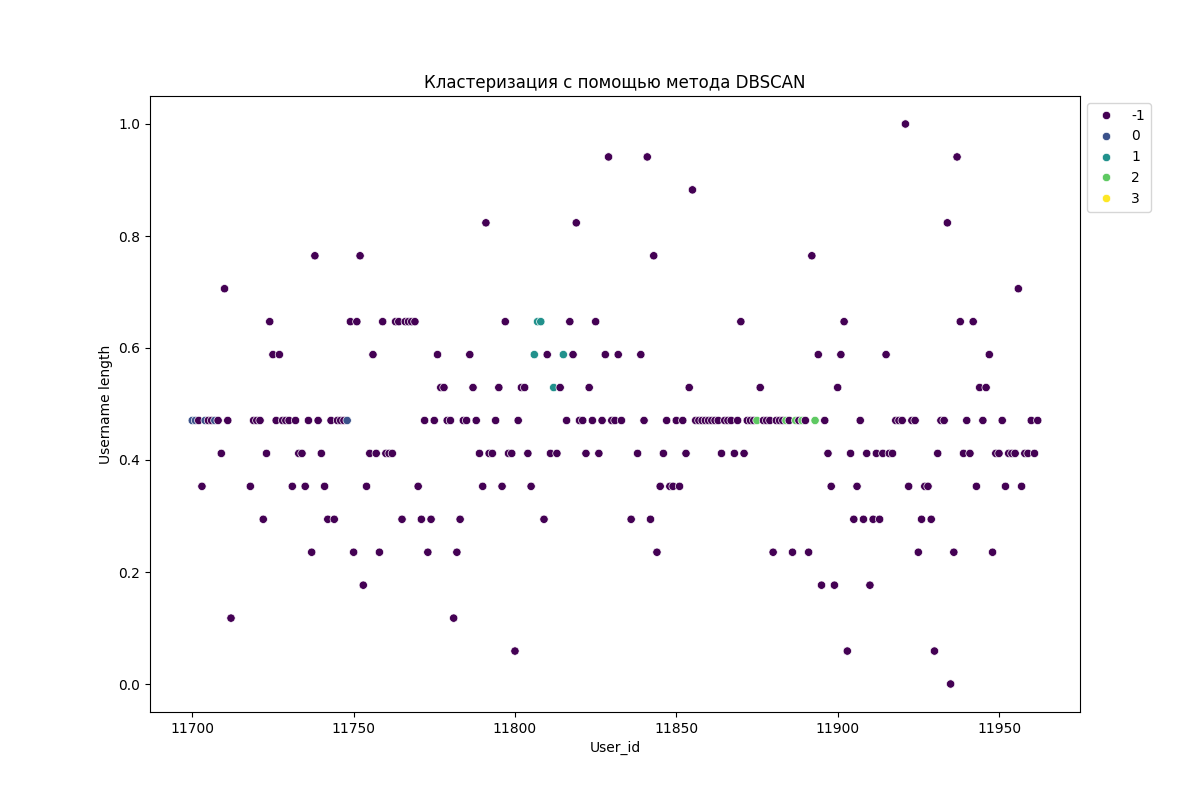
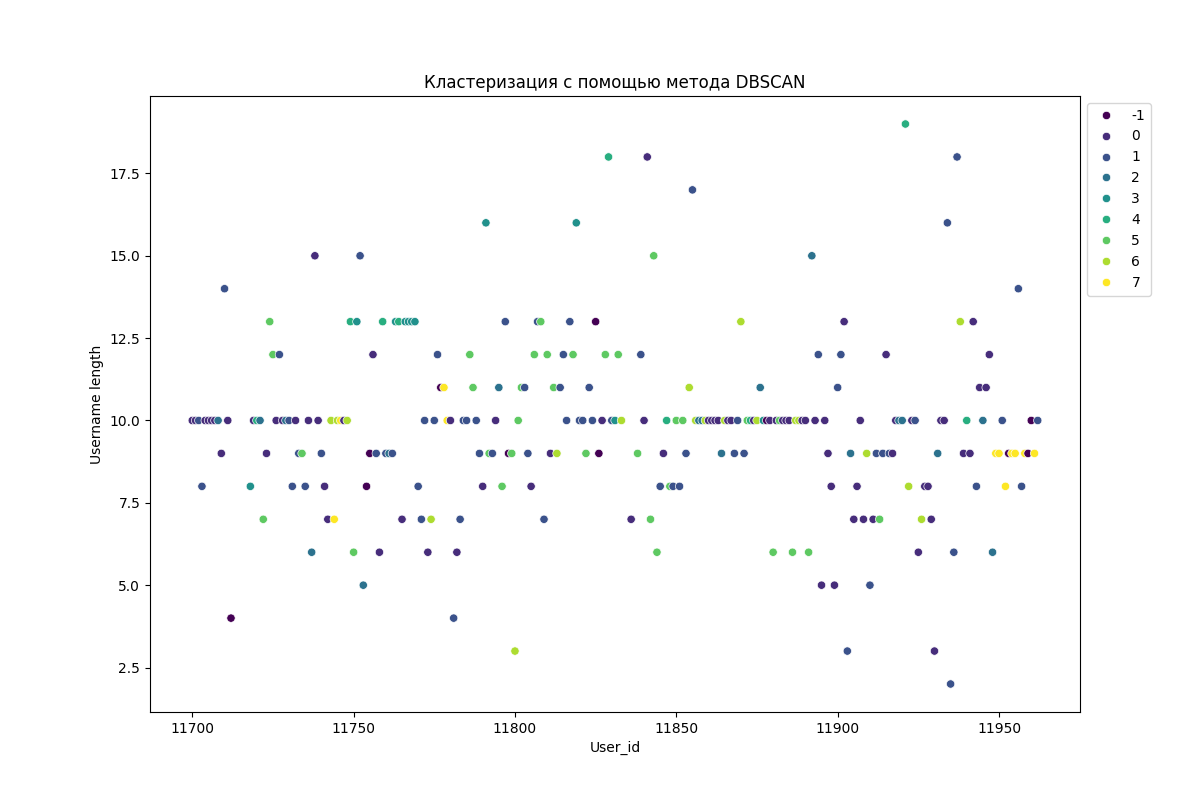
Доработан алгоритм DBSCAN

diff --git a/DBSCAN.py b/DBSCAN.py
@@ -1,11 +1,11 @@
 import sqlite3
 import pandas as pd
-from sklearn.feature_extraction.text import CountVectorizer
-from sklearn.preprocessing import StandardScaler
+from sklearn.impute import SimpleImputer
+from sklearn.preprocessing import MinMaxScaler
 from sklearn.cluster import DBSCAN
 import matplotlib.pyplot as plt
 import seaborn as sns
-import numpy as np
+
 
 # Создание и соединение с базой данных
 connection = sqlite3.connect('accounts_db.db')
@@ -13,8 +13,6 @@ connection = sqlite3.connect('accounts_db.db')
 # Чтение данных из таблицы features
 query = """
 SELECT user_id,
-       username,
-       email,
        username_length,
        numbers_in_name,
        email_length,
@@ -37,39 +35,23 @@ data = pd.read_sql_query(query, connection)
 # Используем user_id как индекс
 data.set_index('user_id', inplace=True)
 
-# Заменяем пропущенные значения в столбце email
-data['email'] = data['email'].replace({None: ''})
+# Заполнение отсутствующих значений в данных
+imputer = SimpleImputer(strategy='mean')  # Берем среднее значение по столбцу
+data_imputed = imputer.fit_transform(data)
 
-# Векторизация текстовых данных (username и email)
-vectorizer = CountVectorizer()
-username_vectorized = vectorizer.fit_transform(data['username'])
-email_vectorized = vectorizer.transform(data['email'])
-
-# Конвертация в DataFrame и добавление к основному DataFrame
-username_df = pd.DataFrame(username_vectorized.toarray(), columns=[f'username_{col}' for col in vectorizer.get_feature_names_out()])
-email_df = pd.DataFrame(email_vectorized.toarray(), columns=[f'email_{col}' for col in vectorizer.get_feature_names_out()])
-
-data = pd.concat([data, username_df, email_df], axis=1)
-
-# Выбираем все числовые признаки для кластеризации
-features_for_clustering = [
-    'username_length', 'numbers_in_name', 'email_length', 'matching_names', 'pattern_email',
-    'country', 'date_last_email', 'date_registered', 'date_last_login', 'matching_dates',
-    'username_neighbour_above', 'username_neighbour_below', 'email_neighbour_above', 'email_neighbour_below']
-
-# Нормализация числовых признаков
-scaler = StandardScaler()
-data_normalized = scaler.fit_transform(data[features_for_clustering])
-
-# Замена null на среднее значение в каждом столбце
-data_normalized = np.nan_to_num(data_normalized)
+# Нормализация числовых и векторизованных признаков
+scaler = MinMaxScaler()
+data_normalized = scaler.fit_transform(data_imputed)
 
 # Применение DBSCAN
-dbscan = DBSCAN(eps=0.5, min_samples=5)
+dbscan = DBSCAN(eps=1, min_samples=6)
 data['cluster'] = dbscan.fit_predict(data_normalized)
 
-# Закрываем соединение с базой данных
-connection.close()
+# Вывод информации о фейковых аккаунтах
+fake_accounts = data[data['cluster'] == -1]
+
+# Сохранение данных в CSV файл
+fake_accounts.to_csv('fake_accounts_dbscan.csv', index=True)
 
 # Создание изображения
 plt.figure(figsize=(12, 8))
@@ -81,3 +63,6 @@ plt.legend(loc='upper left', bbox_to_anchor=(1, 1))
 
 plt.savefig('dbscan_clustering_ALL.png')
 plt.show()
+
+# Закрываем соединение с базой данных
+connection.close()

diff --git a/eps.py b/eps.py
@@ -1,0 +1,71 @@
+import sqlite3
+import pandas as pd
+import matplotlib.pyplot as plt
+from sklearn.impute import SimpleImputer
+from sklearn.neighbors import NearestNeighbors
+import numpy as np
+from kneed import KneeLocator
+from sklearn.preprocessing import MinMaxScaler
+
+min_samples = 6
+
+# Создание и соединение с базой данных
+connection = sqlite3.connect('accounts_db.db')
+
+# Чтение данных из таблицы features
+query = """
+SELECT user_id,
+       username_length,
+       numbers_in_name,
+       email_length,
+       matching_names,
+       pattern_email,
+       country,
+       date_last_email,
+       date_registered, 
+       date_last_login,
+       matching_dates,
+       username_neighbour_above,
+       username_neighbour_below,
+       email_neighbour_above,
+       email_neighbour_below
+FROM features;
+"""
+
+data = pd.read_sql_query(query, connection)
+
+# Используем user_id как индекс
+data.set_index('user_id', inplace=True)
+
+# Заполнение отсутствующих значений в данных
+imputer = SimpleImputer(strategy='mean')  # Берем среднее значение по столбцу
+data_imputed = pd.DataFrame(imputer.fit_transform(data), columns=data.columns, index=data.index)
+
+# Нормализация числовых
+scaler = MinMaxScaler()
+data_normalized = scaler.fit_transform(data_imputed)
+
+# Обучение модели Nearest Neighbors для расчета расстояний до min_samples ближайшего соседа
+neighbors_model = NearestNeighbors(n_neighbors=min_samples)
+neighbors_model.fit(data_normalized)
+distances, indices = neighbors_model.kneighbors()
+distances = np.sort(distances[:,min_samples-1], axis=0)
+
+# Определение точки локтя
+knee_locator = KneeLocator(range(len(distances)), distances, S=1.0, curve='convex', direction='increasing')
+
+# Построение графика
+plt.plot(range(len(distances)), distances)
+plt.title(f'Нахождение параметра eps для DBSCAN')
+plt.xlabel(f'Points Sorted Accoarding to Distance of the {min_samples} Nearest Neighbour')
+plt.ylabel(f'Distance to {min_samples}-th Nearest Neighbor')
+plt.vlines(knee_locator.knee, plt.ylim()[0], plt.ylim()[1], linestyles='dashed', color='red', label='Knee Point')
+
+plt.savefig('dbscan_clustering_eps.png')
+plt.show()
+
+# Вывод оптимального значения eps
+print("Оптимальное eps:", distances[knee_locator.knee])
+
+# Закрываем соединение с базой данных
+connection.close()
